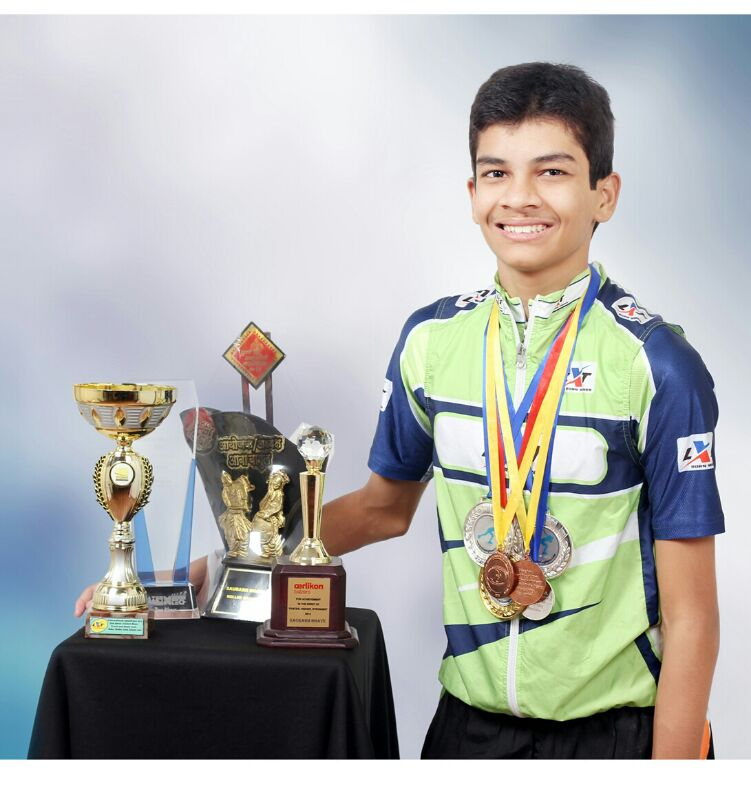
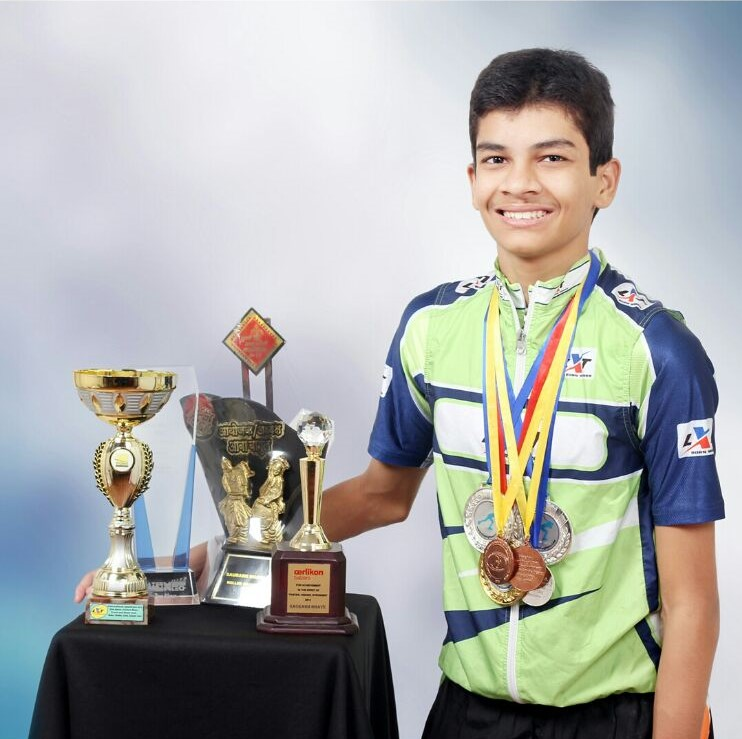
images changed

diff --git a/client/src/components/Achivements.js b/client/src/components/Achivements.js
@@ -1,7 +1,8 @@
 import { Container, Card, Row, Col } from "react-bootstrap";
 import Boy from "../images/boy.jpeg";
 import Girl from "../images/girl.jpeg";
-
+import Achivements3 from "../images/Achivements3.jpg";
+import boy2 from "../images/boy2.png";
 const Achivements = () => {
   return (
     <Container id="achievements" className="mt-5 mb-5">
@@ -25,7 +26,7 @@ const Achivements = () => {
         </Col>
         <Col>
           <Card className="mb-2">
-            <Card.Img variant="top" src={Boy} />
+            <Card.Img variant="top" src={boy2} />
             <Card.Body>
               <p className="text-center">Achivement #1</p>
             </Card.Body>
@@ -33,7 +34,7 @@ const Achivements = () => {
         </Col>
         <Col>
           <Card className="mb-2">
-            <Card.Img variant="top" src={Girl} />
+            <Card.Img variant="top" src={Achivements3} />
             <Card.Body>
               <p className="text-center">Achivement #1</p>
             </Card.Body>
